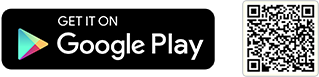
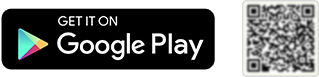
feat: update ios preview link

Changed region(s): [[0.7618, 0.026, 1.0, 0.961]]

diff --git a/src/components/app-landing-page/index.tsx b/src/components/app-landing-page/index.tsx
@@ -11,56 +11,45 @@ import { Devices, IAppLandingPageResource } from "./languages/types";
 import { Tab, Tabs } from "react-bootstrap";
 import appSettings from "../../common/app-settings";
 
-interface QrCodeDeeplink {
-    image: string;
-    url: string;
-    isShow: boolean;
-    isAndroid: boolean;
+const imagesPath = "/static/images/app-download/";
+
+const QRCode: React.FC<{ url: string }> = ({ url }) => {
+    return (<div><QRCodeCanvas
+        value={url}
+        size={isMobile ? 70 : 90}
+        level={"L"}
+        includeMargin={true}
+    /></div>);
+};
+
+const AndroidSection = () => {
+    const apkPath = `${imagesPath}SABA.games.apk`;
+    return (<div className={Styles["qr-code"]}>
+        <div>
+            <a href={apkPath}><img src={`${imagesPath}button-dl-android.png`} alt="" /></a>
+        </div>
+        <QRCode url={`${appSettings.rootUrl}${apkPath}`} />
+    </div>);
+}
+
+const IOSSection = () => {
+    const iosPreviewLink = "https://apps.apple.com/us/app/vivadzo/id6446310346";
+    const buttonLink = isMobile && isIOS ? appSettings.iosDeeplink : iosPreviewLink;
+
+    return (<div className={Styles["qr-code"]}>
+        <div>
+            <a target="_blank" href={buttonLink}><img src={`${imagesPath}button-dl-ios.png`} alt="" /></a>
+        </div>
+        <QRCode url={appSettings.iosDeeplink} />
+    </div>);
 }
 
 const DownloadSection = () => {
-    const imagesPath = "/static/images/app-download/";
-    const apkPath = `${imagesPath}SABA.games.apk`
-    const deepLinks: Array<QrCodeDeeplink> = [
-        {
-            image: `button-dl-ios.png`,
-            url: appSettings.iosDeeplink,
-            isShow: true,
-            isAndroid: false
-        },
-        {
-            image: `button-dl-android.png`,
-            url: `${appSettings.rootUrl}${apkPath}`,
-            isShow: true,
-            isAndroid: true
-        },
-    ];
-
-    const [qrData, setQrData] = useState<Array<QrCodeDeeplink>>();
-    useEffect(() => setQrData(deepLinks), []);
-
-    return (
-        <div >
-            {
-                qrData && qrData.map((item: QrCodeDeeplink, index: number) => {
-                    return item.isShow ? (<div className={Styles["qr-code"]} key={index}>
-                        <div>
-                            {!item.isAndroid && <a target="_blank" href={item.url}><img src={`${imagesPath}${item.image}`} alt="" /></a>}
-                            {item.isAndroid && <a href={apkPath}><img src={`${imagesPath}${item.image}`} alt="" /></a>}
-                        </div>
-                        <div><QRCodeCanvas
-                            value={item.url}
-                            size={isMobile ? 70 : 90}
-                            level={"L"}
-                            includeMargin={true}
-                        /></div>
-                    </div>) : <div key={index}></div>;
-                })
-            }
-        </div >
-    );
+    return (<div>
+        <IOSSection />
+        <AndroidSection />
+    </div>)
 }
-
 const AppLandingPageComponent: React.FunctionComponent<{ locale: string }> = ({ locale }) => {
     const [isMobile, setIsMobile] = useState<boolean>();
     useEffect(() => setIsMobile(isMobileOnly), []);
